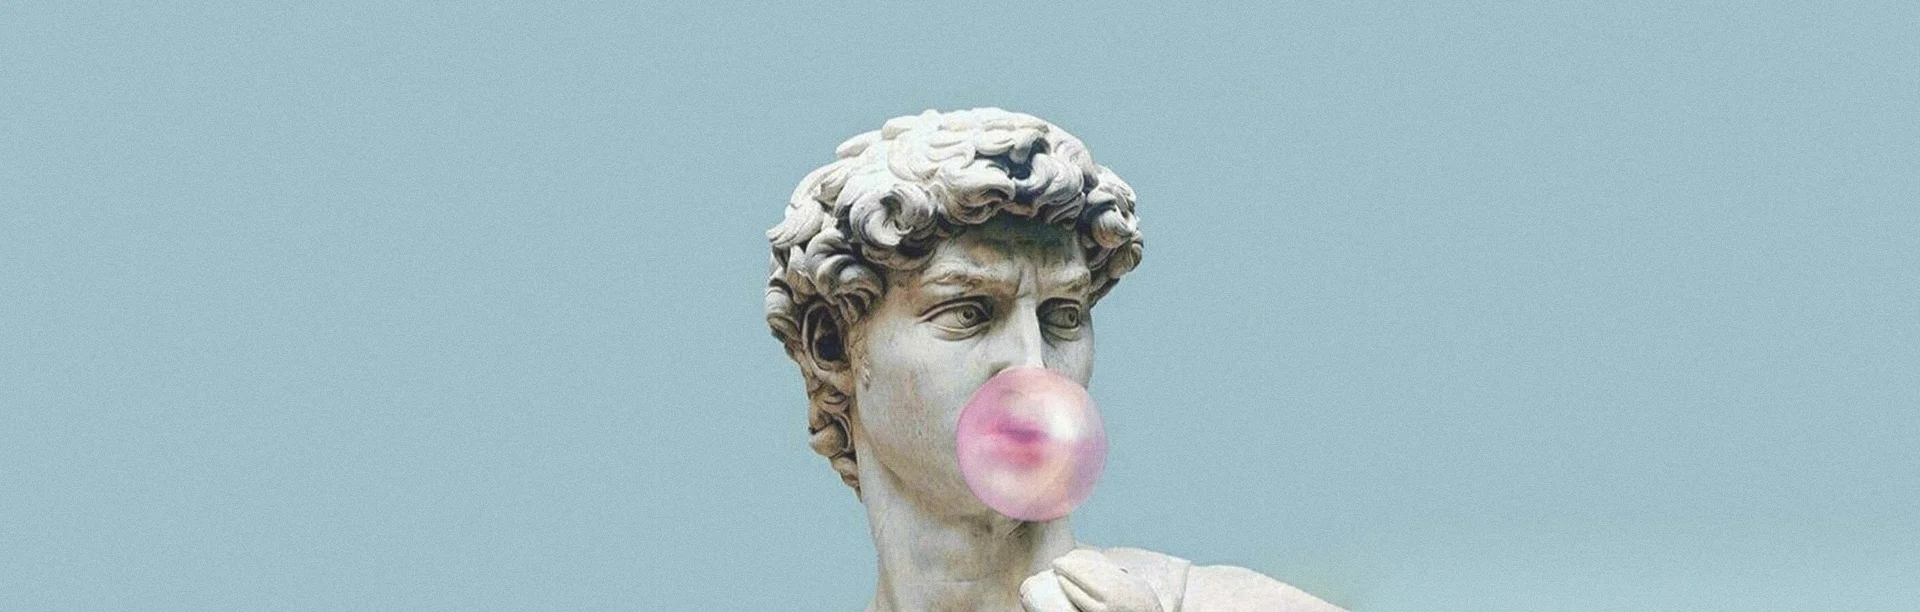
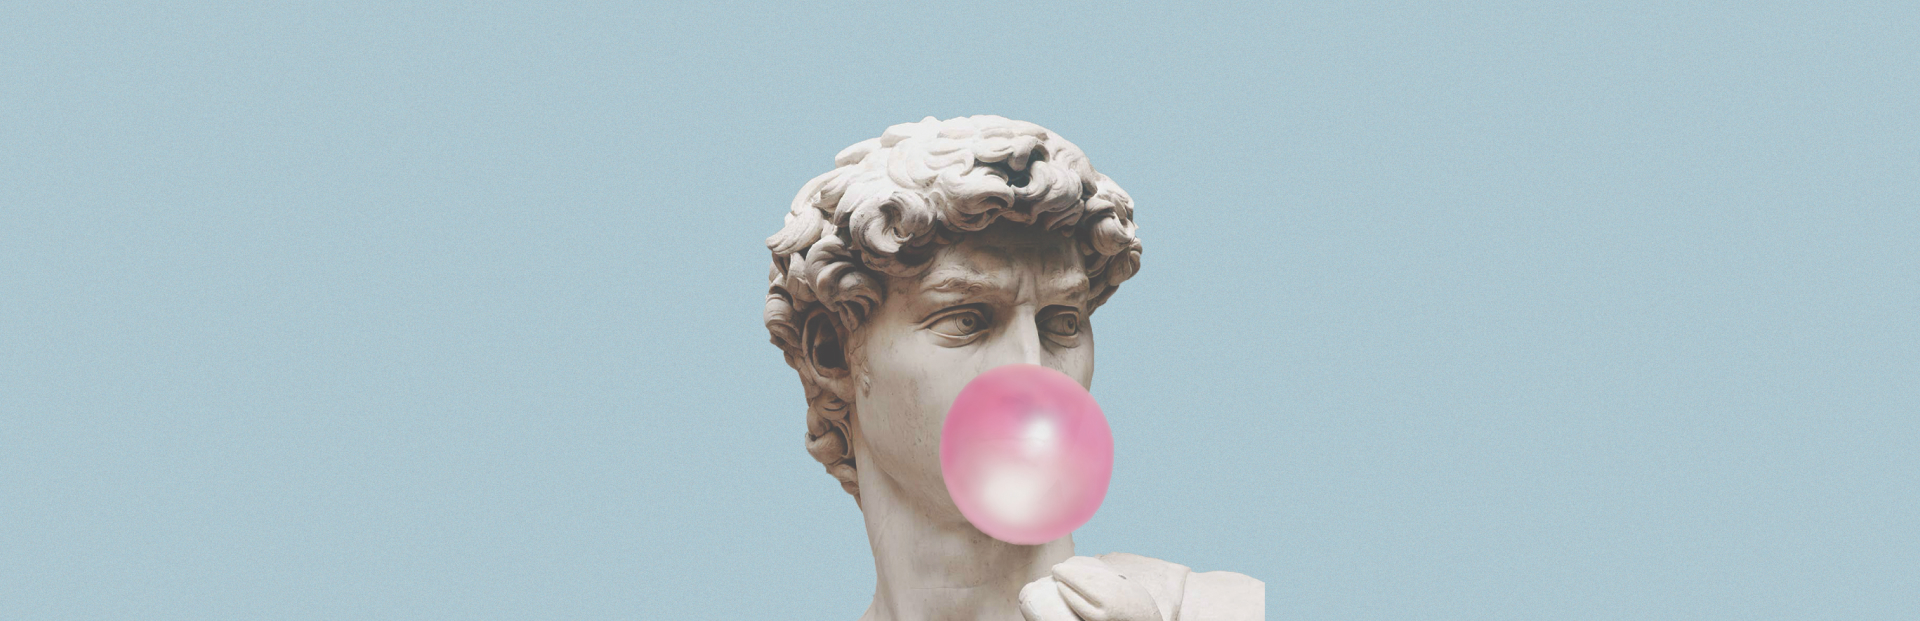
header fix

diff --git a/v5.1/volv-landing-page.css b/v5.1/volv-landing-page.css
@@ -1358,6 +1358,33 @@ a:hover {
   animation-name: fadeInUp;
 }
 
+.csm-footer {
+  display: grid;
+  grid-template-columns: 1fr 1fr;
+  height: 80px;
+  background-color: #ffe2af;
+  align-items: center;
+  margin-bottom: 80px;
+}
+
+.csm-foot-volv img {
+  height: 23px;
+}
+
+.csm-foot-volv {
+  justify-self: right;
+  padding-right: 20px;
+}
+
+.csm-foot-logo {
+  border-left: 1px solid black;
+  padding-left: 20px;
+}
+
+.csm-foot-logo img {
+  height: 30px;
+}
+
 @media only screen and (max-height: 500px) {
   .header {
     position: absolute;
@@ -1876,8 +1903,40 @@ a:hover {
     width: 90%;
   }
   .csmsec1 {
-    height: 55vw;
+    height: 100vw;
     width: 100%;
+  }
+
+  .csmsec1 > img {
+    padding: 48vw 0px 0px 0px;
+    width: 90%;
+  }
+
+  .csm-footer {
+    display: grid;
+    grid-template-columns: 1fr 2fr;
+    height: 60px;
+    background-color: #ffe2af;
+    align-items: center;
+    margin-bottom: 80px;
+  }
+
+  .csm-foot-volv img {
+    height: 18px;
+  }
+
+  .csm-foot-volv {
+    justify-self: right;
+    padding-right: 20px;
+  }
+
+  .csm-foot-logo {
+    border-left: 1px solid black;
+    padding-left: 20px;
+  }
+
+  .csm-foot-logo img {
+    height: 23px;
   }
 }
 

diff --git a/v5.1/csm-sophie-katirai.html b/v5.1/csm-sophie-katirai.html
@@ -534,6 +534,15 @@
         </div>
       </div>
 
+      <div class="csm-footer">
+        <div class="csm-foot-volv">
+          <img src="assets/volv-logo-black.svg" />
+        </div>
+        <div class="csm-foot-logo">
+          <img src="assets/culture-shifter-magazine-logo.svg" />
+        </div>
+      </div>
+
       <div class="footer">
         <div>
           <span
